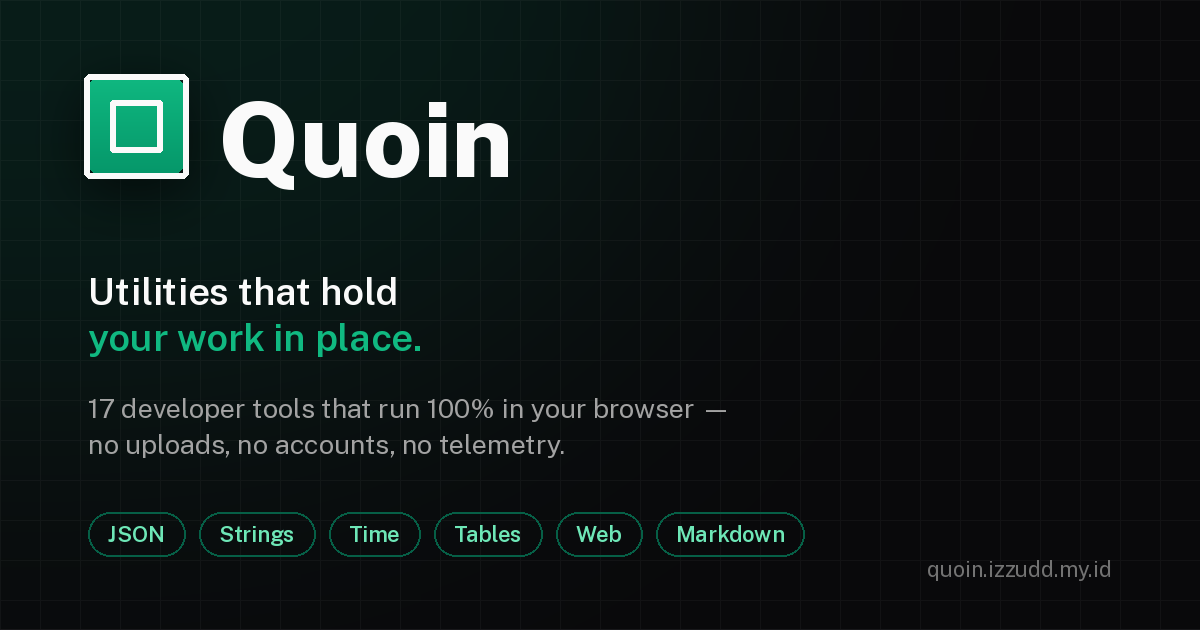
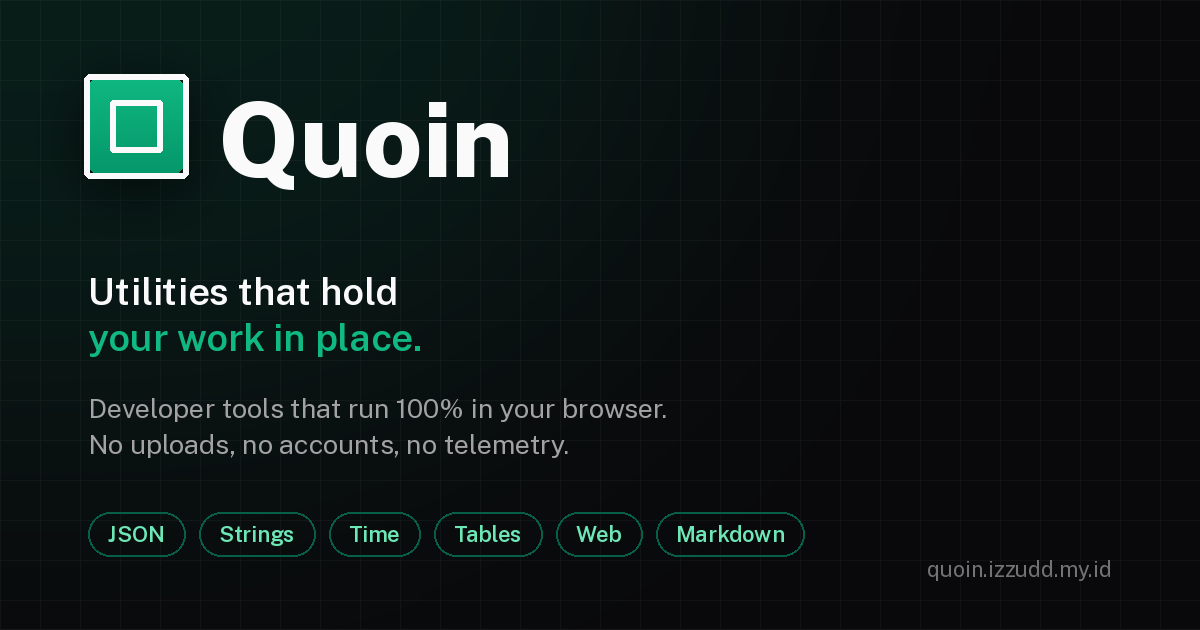
copy: drop the tool count from the social card and meta description (#4)
The number goes stale the moment a tool is added. The card is also the
cover_image for the announcement post, so it should not date itself.

- regenerate public/og.png without a count and without an em dash
- HOME_DESCRIPTION no longer starts with 'Seventeen developer tools'
- regenerated head (all 18 routes inherit the new description)

Changed region(s): [[0.0617, 0.6333, 0.5858, 0.6635], [0.0617, 0.6937, 0.4933, 0.7238]]

diff --git a/app/config/site.ts b/app/config/site.ts
@@ -15,7 +15,7 @@ export const AUTHOR_URL = 'https://izzudd.my.id'
 
 export const HOME_TITLE = 'Quoin — privacy-first developer tools'
 
-export const HOME_DESCRIPTION = 'Seventeen developer tools that run 100% in your browser: JSON formatter & schema builder, encoders, slugifier, timezone converter, CSV tables, Markdown. No uploads, no accounts, no telemetry.'
+export const HOME_DESCRIPTION = 'Developer tools that run 100% in your browser: JSON formatter & schema builder, encoders, slugifier, timezone converter, CSV tables, Markdown. No uploads, no accounts, no telemetry.'
 
 export function toolTitle(tool: Pick<ToolItem, 'name'>) {
   return `${tool.name} — Quoin`
